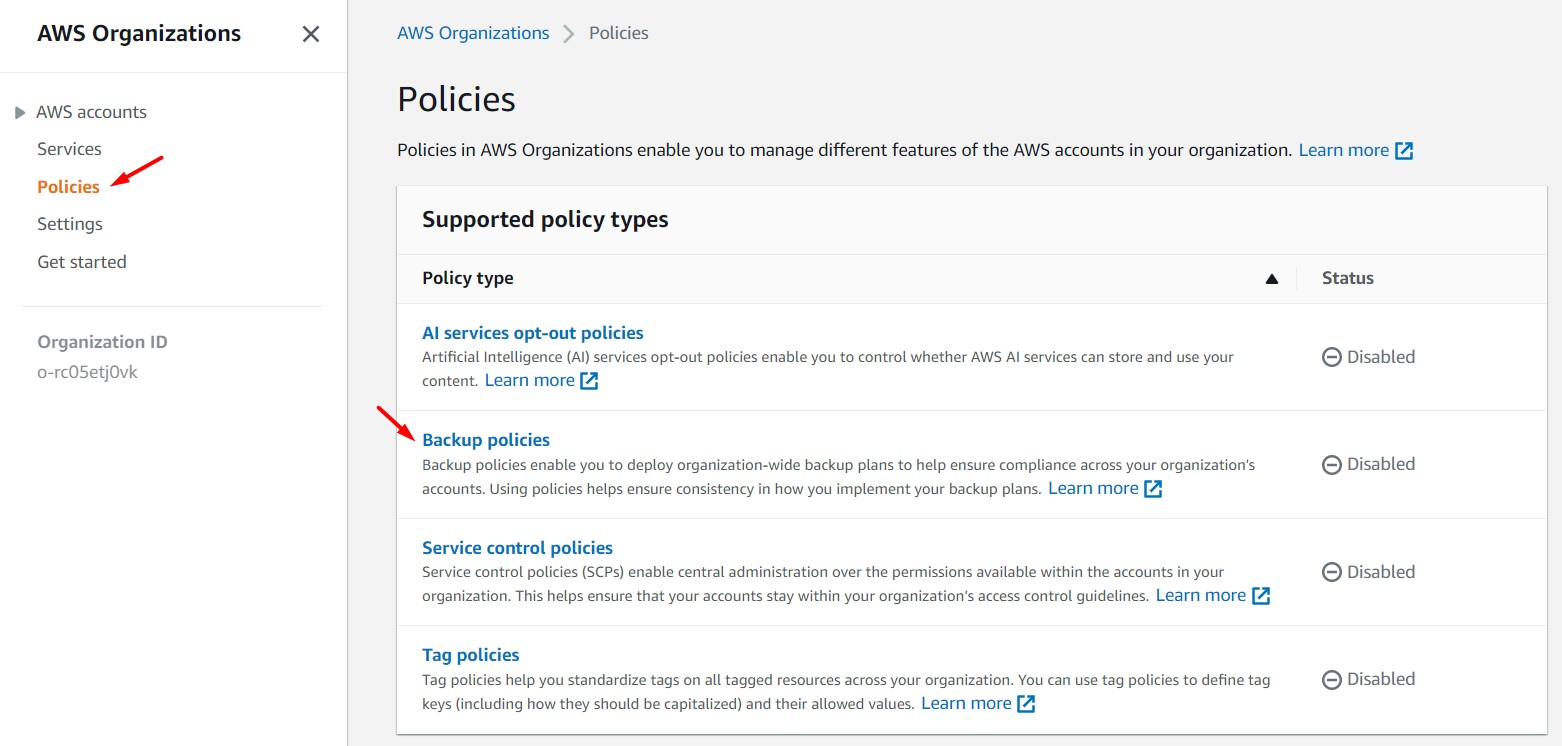
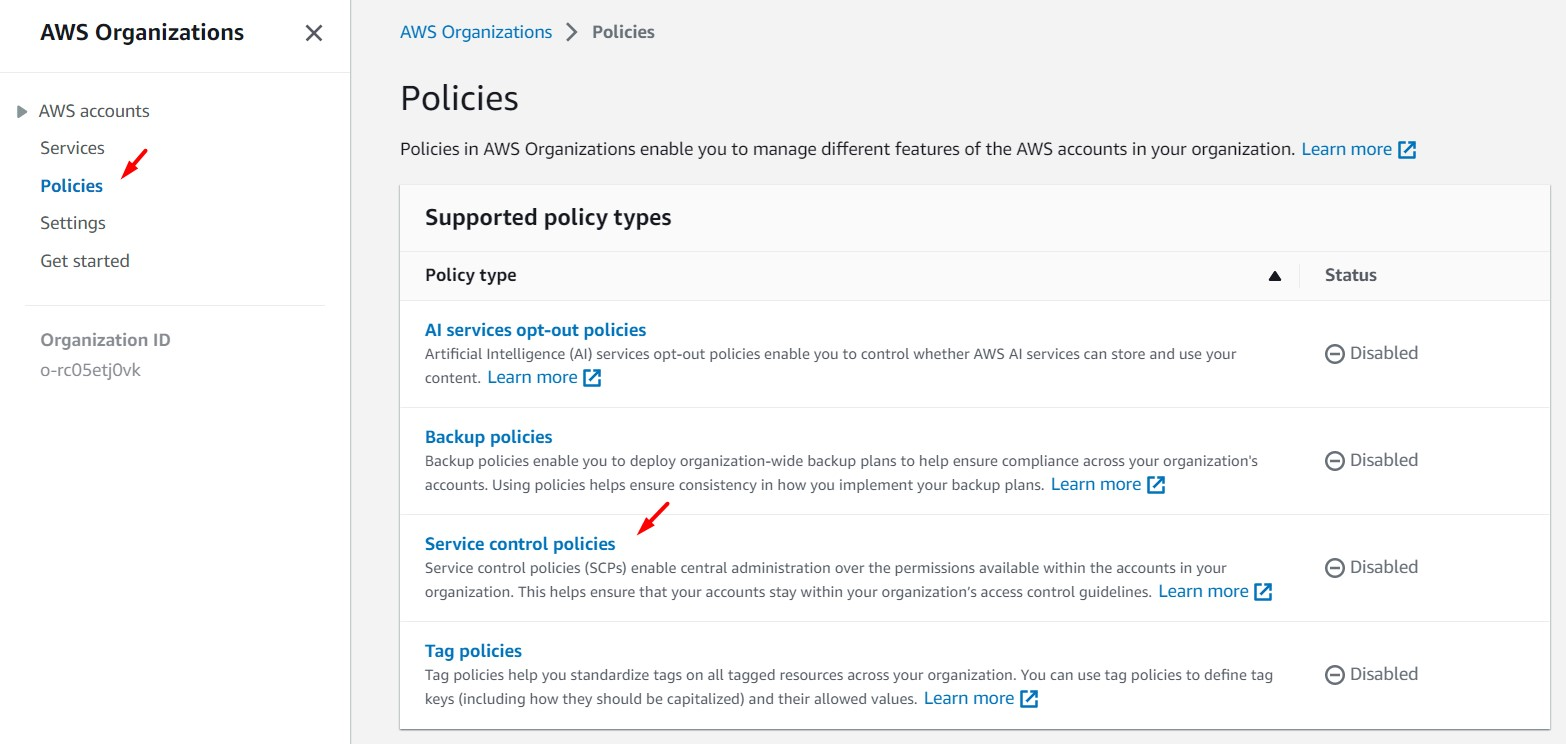
Update Lab-24

diff --git a/Lab-24/README-Lab24.md b/Lab-24/README-Lab24.md
@@ -16,7 +16,7 @@
 
 ---
 
-### A - EnEntendimiento de OU (Organizational Unit) en AWS Organizations
+### A - Entendimiento de OU (Organizational Unit) en AWS Organizations
 
 <br>
 
@@ -44,7 +44,7 @@
 
 <br>
 
-3. Ingresamos a la sección de "Policies", luego damos clic en la opción "Backup policies". Seguidamente en "Enable backup policies". Luego, damos clic en "Create Policy". 
+3. Ingresamos a la sección de "Policies", luego damos clic en la opción "Service Control policies". Seguidamente damos clic en el botón "Enable service control policies". Habilito los "Service Control Policies", damos clic en el botón "Create Policy". 
 
 <img src="images/Lab24_05.jpg">
 
@@ -63,8 +63,9 @@
 <br>
 
 4. Ingresamos los siguientes valores. Luego, dar clic en el botón "Create Policy"
+
     * Policy name: Virginia
-    * Policy: Copiar la política "1_lab24_awsorganizations_scp" almacenada en Lab-24/code. Analizar la política.
+    * Policy: Copiar el contenido del archivo "1_lab24_awsorganizations_scp" almacenado en la ruta Lab-24/code de este repositorio y pegarlo en la sección "Statement". Analizar la política.
 
 <br>
 
@@ -80,7 +81,7 @@
 
 <br>
 
-5. Seleccionamos la SCP "Virginia", damos clic en el botón "Actions" y seleccionamos "Attach Policy". Luego, seleccionamos nuestra cuenta AWS generada en pasos anterior ("awstraining-01") y damos clic en "Attach Policy". Si accedemos al detalle de la nueva cuenta AWS, validaremos que esta cuenta tiene asociada varias SCPs, una de ellas será el SCP "Virginia"
+5. Seleccionamos la SCP "Virginia", damos clic en el botón "Actions" y seleccionamos la opción "Attach Policy". Luego, desde la estructura en forma de árbol de AWS Organizations, seleccionamos nuestra cuenta AWS generada en pasos anterior ("awstraining-01") y damos clic en "Attach Policy". Si accedemos al detalle de la nueva cuenta AWS, validaremos que esta cuenta tiene asociada varias SCPs (FullAWSAccess), una de ellas será el SCP "Virginia"
 
 <br>
 
@@ -96,7 +97,7 @@
 
 <br>
 
-6. Accedemos a la cuenta "awstraining-01" e ingresamos al servicio EC2 en la región de N.Virginia. Asimismo, accedemos a la región Ohio. Validaremos que no se cuenta con permisos en la región de Ohio. La política SCP "Virginia" asociada a nivel de AWS Organizations a esta la cuenta "awstraining-01", sólo permite el uso de servicios en la región N.Virginia, todo lo demás se negará (no se incluye los servicios de naturaleza Global.
+6. Accedemos a la cuenta "awstraining-01" e ingresamos al servicio EC2 en la región de N.Virginia. Asimismo, accedemos a la región Ohio. Validaremos que no se cuenta con permisos en la región de Ohio. La política SCP "Virginia" asociada, a nivel de AWS Organizations, a la cuenta "awstraining-01" sólo permite el uso de servicios en la región N. Virginia, todo lo demás se negará (no se incluye los servicios de naturaleza Global).
 
 <br>
 
@@ -107,3 +108,12 @@
 <img src="images/Lab24_16.jpg">
 
 <br>
+
+---
+
+### Eliminación de recursos
+
+```bash
+#Eliminar SCP
+#Deshabilitar "Policies - Service control policies"
+```
